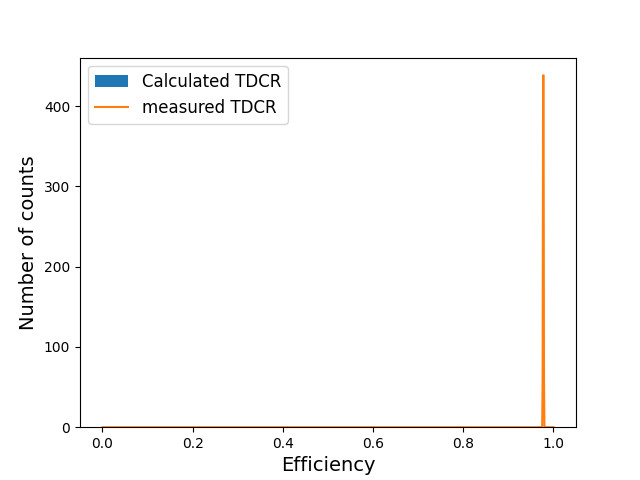
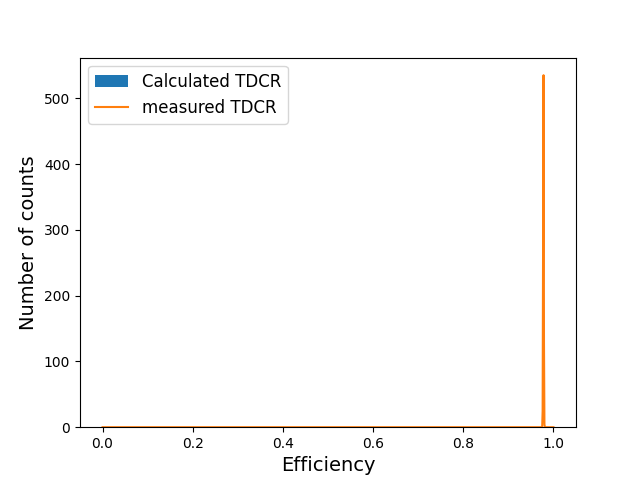
Consolition des pouvoirs d'arrêts alpha et e

diff --git a/MCTDCRcode/main_MCTDCR.py b/MCTDCRcode/main_MCTDCR.py
@@ -19,7 +19,7 @@ import scipy.stats as st
 N=1 # number of simulated decay (MC trials)
 
 
-Rad=["Am-241"]       # list of radionuclides
+Rad=["H-3"]       # list of radionuclides
 pmf_1=[1.0]         # relative abondance (pmf)
 if np.size(pmf_1) > 1:
     if sum(pmf_1 !=1): print("warning p not equal to 1")
@@ -29,7 +29,7 @@ RHO = 0.866         #density of absorber (Toluene) g/cm3
 #kB = 0.01                  # Birks constant in cm/MeV
 #L = 0.0056                  # the free parameter /MeV-1
 kB = 1e-5    #cm/keV
-L = 5.6e-6    # MeV-1
+L = 5.6e-6    # keV-1
 
 
 TDCR_measure = 0.977784        # Measured TDCR value
@@ -141,16 +141,16 @@ for i in range(N): # Main Loop
 
     ## Calculation of the scintillation quenching with the Birks Model
     for i, p in enumerate(particle_vec):
-        e_discrete = np.linspace(0,energy_vec[i]*1e3,10000) # vector for the quenched  energy calculation in eV
+        e_discrete = np.linspace(0,energy_vec[i],10000) # vector for the quenched  energy calculation keV
         delta_e = e_discrete[2]-e_discrete[1]
         if p == "alpha":
             energy_vec[i] = 0
             for j in e_discrete:
-                energy_vec[i] += delta_e*1e-3/(1+kB*tl.stoppingpowerA(j*1e3,'alpha_toulene.txt',RHO))
+                energy_vec[i] += delta_e/(1+kB*tl.stoppingpowerA(j,'alpha_toulene.txt',RHO)) # input keV / output (keV.cm-1)
         if p == "electron":
             energy_vec[i] = 0
             for j in e_discrete:
-                energy_vec[i] += (delta_e/(1+kB*tl.stoppingpowerE(j,rho=RHO)))*1e-3
+                energy_vec[i] += (delta_e/((1+kB*1e3*tl.stoppingpowerE(j*1e3,rho=RHO)))) # input in eV / output in keV.cm
     
     print("\t\t quenched energy : ", energy_vec, "keV")
     
